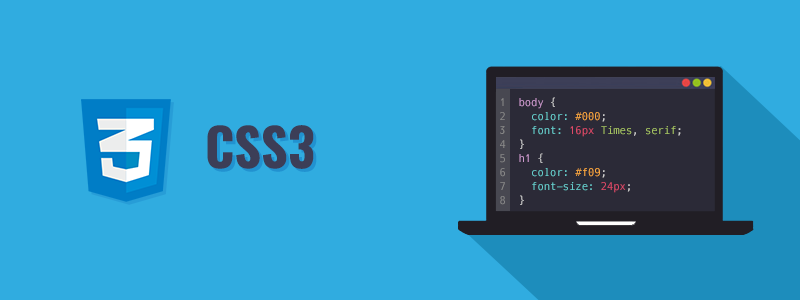
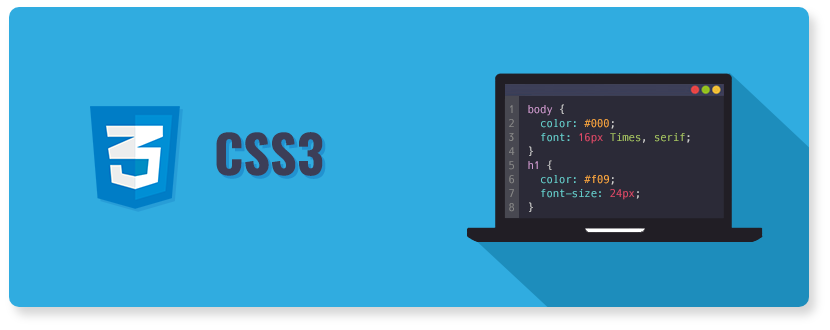
updated readme.

Changed region(s): [[0.0, 0.0, 1.0, 1.0], [0.0938, 0.3, 0.2188, 0.69], [0.25, 0.39, 0.4062, 0.57]]

diff --git a/README.md b/README.md
@@ -1,6 +1,6 @@
 # CSS Resources
 <p align="center">
-  <img src="/src/assets/css-hero.png" width="600" alt="css-hero">
+  <img src="/src/assets/css-hero.png" width="800" alt="css-hero">
 </p>
 
 ## Introduction
@@ -24,15 +24,222 @@ This guide is not intended to teach you the fundamentals of CSS but merely a ref
 ## 🔗 Resources
 - [CSS -> JavaScript](https://css2js.dotenv.dev/)
 - [Guide to CSS Flexbox](https://css-tricks.com/snippets/css/a-guide-to-flexbox/)
+- [PurgeCSS](https://purgecss.com/#sponsors-%F0%9F%A5%B0)
 
 ## 📓 Notes
 ### Table of Contents
 
-  1. [Section](#link)
+  1. [Center a Div](#centering-a-div)
+  1. [Color](#color)
 
 ---
 
-### Section 
+### Center a Div
+Yes, the dreaded centering in CSS... There are many ways to achieve this but luckily _Flex_ and _Grid_ have made our lives much easier.
+
+Each example will be using the following HTML:
+```html
+<div class="outer-div">
+  <div class="inner-div"></div>
+</div>
+```
+
+Each example will have these root CSS styles:
+```css
+.outer-div {
+  background-color: #E3E3E3;
+  width: 600px;
+  height: 200px;
+}
+
+.inner-div {
+  background-color: #0578D3;
+  width: 250px;
+  height: 100px;
+}
+```
+
+<p align="center">
+  <img src="/src/assets/css-center-div-01.png" width="600" alt="css-center-div">
+</p>
+
+We have a 600x200 grey outer div, and a 250x100 blue inner div. The goal is to find the best ways to center the blue div vertically and horizontally inside the red div. \
+We should get this end result:
+
+<p align="center">
+  <img src="/src/assets/css-center-div-02.png" width="600" alt="css-center-div">
+</p>
+
+#### Flexbox
+```css
+.outer-div {
+  display: flex;
+  justify-content: center;
+  align-items: center;
+}
+```
+Or:
+```css
+.outer-div {
+  display: flex;
+  justify-content: center;
+}
+
+.inner-div {
+  align-self: center;
+}
+```
+
+#### Grid
+```css
+.outer-div {
+  display: grid;
+  place-content: center;
+}
+```
+Or:
+```css
+.outer-div {
+  display: grid;
+  align-items: center;
+  justify-content: center;
+}
+```
+Or:
+```css
+.outer-div {
+  display: grid;
+}
+
+.inner-div {
+  align-self: center;
+  justify-self: center;
+}
+```
+
+#### Absolute Positioning
+```css
+.outer-div {
+  position: relative;
+}
+
+.inner-div {
+  position: absolute;
+  top: 50%;
+  left: 50%;
+  transform: translate(-50%, -50%);
+}
+```
+Or:
+```css
+.outer-div {
+  position: relative;
+}
+
+.inner-div {
+  position: absolute;
+  top: 0;
+  left: 0;
+  margin: auto;
+}
+```
+
+**[⬆ Top](#table-of-contents)**
+
+---
+
+### Color
+
+##### Resources
+* [TailwindCSS Colors](https://tailwindcss.com/docs/customizing-colors)
+* [Coolors](https://coolors.co/)
+* [HTML Color Codes](https://htmlcolorcodes.com/)
+* [BrandColors](https://brandcolors.net/)
+* [ColorSpace](https://mycolor.space/)
+
+Companies:
+```css
+:root {
+  --airbnb-coral: #ff585d;
+  --apple-blue: #0479f1;
+  --atlassian-blue: #003366;
+  --facebook-blue: #4267b2;
+  --ferrari-red: #cd212a;
+  --firefox-dark-orange: #e66000;
+  --firefox-orange: #ff9500;
+  --firefox-yellow: #ffcb00;
+  --google-yellow: #f4b400;
+  --google-red: #db4437;
+  --google-blue: #4285f4;
+  --google-green: #34a853;
+  --heroku-light-purple: #c9c3e6;
+  --heroku-purple: #6762a6;
+  --javascript-yellow: #f7df1e;
+  --lyft-pink: #ff00bf;
+  --react-blue: #00d8ff;
+  --reddit-red: #ff4500;
+  --roku-purple: #6f1ab1;
+  --spotify-green: #1db954;
+  --starbucks-green: #00704a;
+}
+```
+
+Call to action:
+```css
+:root {
+  --success: #28a745;
+  --danger: #dc3545;
+  --warning: #ffc107;
+}
+```
+
+Neon:
+```css
+:root {
+  --neon-dark: #01041E;
+  --neon-green: #3EFF15;
+  --neon-yellow: #FFF857;
+  --neon-teal: #00FFFF;
+  --neon-pink: #fe59c2;
+  --neon-purple-dark: #A117F2;
+  --neon-purple-medium: #BE00FE;
+  --neon-purple-light: #DF00FE;
+}
+```
+
+##### RGB
+RGB numbers are based upon monitor settings of red, green, and blue light. By changing the RGB numbers, you’re telling your monitor how much of that particular light color you want to shine.
+
+RGB defines the values of red (the first number), green (the second number), or blue (the third number). The number 0 signifies no representation of the color and 255 signifies the highest possible concentration of the color.
+
+`RGB(255, 0, 0)`
+
+In the above example, you get the brightest red possible without any green or blue presented. If you wanted only green, you’d use `RGB(0, 255, 0)` and for blue, `RGB(0, 0, 255)`.
+
+##### Hexadecimal (Hex)
+We use hexadecimal numbers because it’s a human-friendly representation of values in binary code. Hex color codes start with a pound sign or hashtag (#) and are followed by six letters and/or numbers. 
+
+The first two letters/numbers refer to _red_, the next two refer to _green_, and the last two refer to _blue_. The color values are defined in values between 00 and FF (instead of from 0 to 255 in RGB).
+
+Numbers are used when the value is 1-9. Letters are used when the value is higher than 9.
+`A = 10`
+`B = 11`
+`C = 12`
+`D = 13`
+`E = 14`
+`F = 15`
+
+To get a hexadecimal color, we simply follow these three steps:
+1. Multiply the first number (or converted number from the letter) by 16.
+1. Multiply the second number (or converted number from the letter) by 1.
+1. Add those two totals together to get a single value.
+
+For example, the hexadecimal number for the number 83 is actually 131. We come to this conclusion by:
+1. Multiplying the 8 in 83 by 16 (8x16=128).
+1. Multiplying the 3 in 83 by 1 (3x1=3).
+1. Adding the two totals together (128+3=131).
+
+Working with letters is the same concept. For example, FF = 255 because you multiply the number that represents F (15) by 16, then multiply the number that represents the second F (15) by 1. Then add the two totals together to equal 255. Recognize that the number 255 is the same as the RGB number 255, which is bright red.
 
 **[⬆ Top](#table-of-contents)**
 
